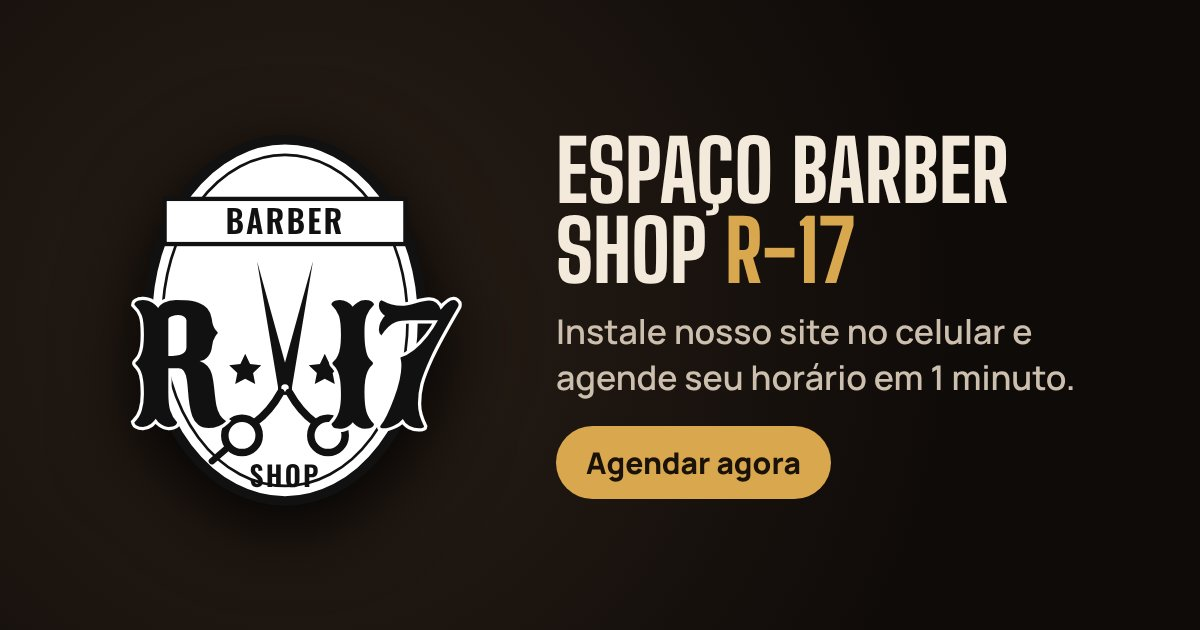
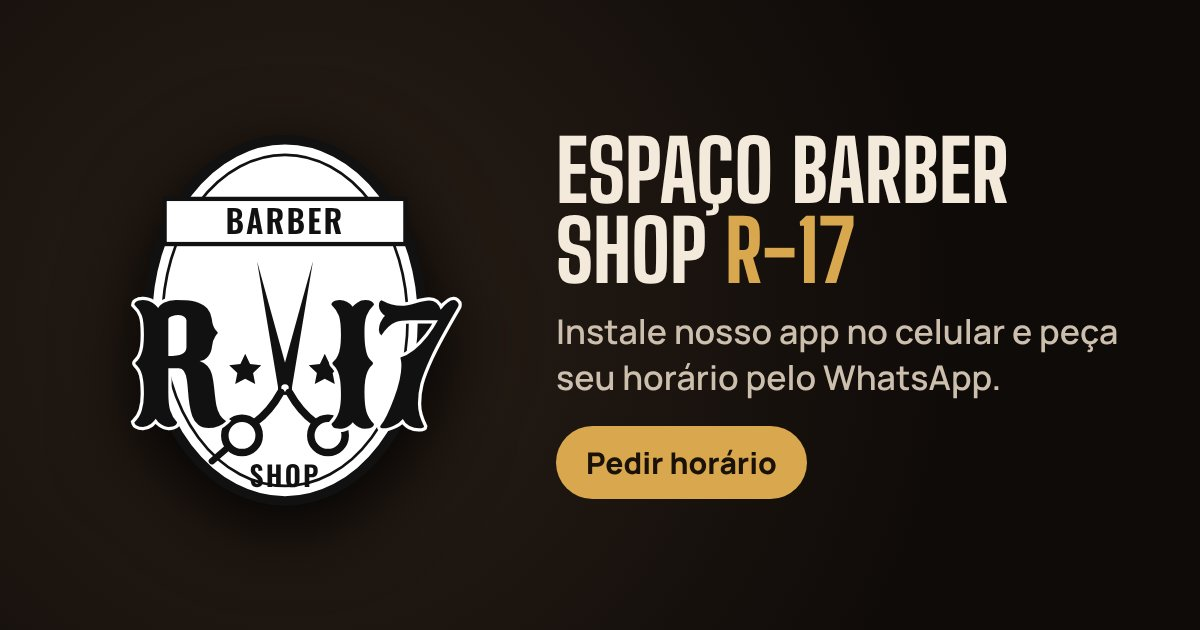
R-17: painel do dono instala como app próprio (R-17 Painel) com instruções
Claude-Session: https://claude.ai/code/session_01T54HaUnZSr3M1kr6SuLoc1

Changed region(s): [[0.4625, 0.5127, 0.9558, 0.6333], [0.4933, 0.6635, 0.7092, 0.8143], [0.7708, 0.5127, 0.8325, 0.5429]]

diff --git a/r17/index.html b/r17/index.html
@@ -6,7 +6,8 @@
 <title>Espaço Barber Shop R-17</title>
 <meta name="description" content="Barbearia no Jardim Kemel, Itaim Paulista. Agende seu horário online.">
 <meta name="claude:viewport-fit-sides" content="cover">
-<link rel="manifest" href="manifest.webmanifest">
+<link rel="manifest" id="mf" href="manifest.webmanifest">
+<script>/* painel do dono instala como app separado */ if(location.hash==="#adm"||/[?&]painel/.test(location.search)) { document.getElementById("mf").href="manifest-adm.webmanifest"; document.title="R-17 Painel"; }</script>
 <meta property="og:type" content="website">
 <meta property="og:title" content="Espaço Barber Shop R-17">
 <meta property="og:description" content="Instale nosso site no celular e agende seu horário em 1 minuto.">
@@ -690,7 +691,7 @@ footer{border-top:1px solid var(--line)}
         <div id="admBody" hidden>
           <div class="adm-top">
             <div><div class="eyebrow">Somente administrador</div><h2>Agenda da barbearia</h2></div>
-            <div class="btns" style="margin:0"><a class="btn btn-sm btn-y" href="./" target="_blank" rel="noopener">Ver site do cliente</a><button class="btn btn-sm btn-line" type="button" id="trocarSenha">Trocar senha</button><button class="btn btn-sm btn-line" type="button" id="sair">Sair do painel</button></div>
+            <div class="btns" style="margin:0"><button type="button" class="btn btn-sm btn-y" id="btnInstalarAdm" hidden>📲 Instalar painel no celular</button><a class="btn btn-sm btn-y" href="./" target="_blank" rel="noopener">Ver site do cliente</a><button class="btn btn-sm btn-line" type="button" id="trocarSenha">Trocar senha</button><button class="btn btn-sm btn-line" type="button" id="sair">Sair do painel</button></div>
           </div>
 
           <nav class="tabs" id="tabs" role="tablist">
@@ -1853,6 +1854,7 @@ renderSlots();
   carregarFotos();
   try{ await carregarLoja(); online=true; }catch(e){}
   if(!$("data").dataset.mexeu){ $("data").value=proximoDia(); }
+  if(location.hash!=="#adm" && /[?&]painel/.test(location.search)) history.replaceState(null,"",location.pathname+location.search+"#adm");
   if(location.hash==="#adm"){ abrirPainel(); setTimeout(()=>$("painel").scrollIntoView({behavior:"smooth"}),300); }
   setInterval(()=>{ if(!document.hidden && isAdmin() && !$("admBody").hidden) ouvirDia(); }, 30000);
   setInterval(()=>{ if(isAdmin() && !$("admBody").hidden && !document.querySelector(".row .edit")) ouvirAdm(); }, 20000);
@@ -1869,24 +1871,35 @@ let pedidoInstalar=null;
 const ehIOS = /iphone|ipad|ipod/i.test(navigator.userAgent) || (navigator.platform==="MacIntel" && navigator.maxTouchPoints>1);
 const ehCelular = /android|iphone|ipad|ipod|mobile/i.test(navigator.userAgent) || ehIOS;
 let fechouInstalar=false; try{ fechouInstalar = sessionStorage.getItem("r17-inst")==="0"; }catch(e){}
-function mostrarBtnInstalar(){ if(!ehApp && !fechouInstalar && location.hash!=="#adm" && (pedidoInstalar || ehCelular)) $("btnInstalar").hidden=false; }
+const ehPainel = () => location.hash==="#adm" || /[?&]painel/.test(location.search);
+function mostrarBtnInstalar(){
+  if(ehApp) return;
+  if(!ehPainel() && !fechouInstalar && (pedidoInstalar || ehCelular)) $("btnInstalar").hidden=false;
+  if(ehPainel()) $("btnInstalarAdm").hidden=false;
+}
 window.addEventListener("beforeinstallprompt",e=>{ e.preventDefault(); pedidoInstalar=e; mostrarBtnInstalar(); });
-window.addEventListener("appinstalled",()=>{ $("btnInstalar").hidden=true; });
+window.addEventListener("appinstalled",()=>{ $("btnInstalar").hidden=true; $("btnInstalarAdm").hidden=true; });
+window.addEventListener("hashchange",mostrarBtnInstalar);
 setTimeout(mostrarBtnInstalar,2500);
-$("btnInstalar").addEventListener("click",async()=>{
-  if(pedidoInstalar){ pedidoInstalar.prompt(); const r=await pedidoInstalar.userChoice.catch(()=>null); pedidoInstalar=null; if(r && r.outcome==="accepted") $("btnInstalar").hidden=true; return; }
-  $("instPassos").innerHTML = ehIOS
-    ? `<li>Abra este site no <b>Safari</b>.</li><li>Toque no botão <b>Compartilhar</b> (o quadrado com a setinha para cima ⬆).</li><li>Role e toque em <b>Adicionar à Tela de Início</b>.</li><li>Toque em <b>Adicionar</b>. Pronto, o ícone da R-17 aparece no celular.</li>`
-    : `<li>Toque nos <b>3 pontinhos ⋮</b> no canto de cima do navegador.</li><li>Toque em <b>Instalar app</b> ou <b>Adicionar à tela inicial</b>.</li><li>Confirme. Pronto, o ícone da R-17 aparece no celular.</li>`;
+async function instalarApp(){
+  const painel=ehPainel();
+  if(pedidoInstalar){ pedidoInstalar.prompt(); const r=await pedidoInstalar.userChoice.catch(()=>null); pedidoInstalar=null; if(r && r.outcome==="accepted"){ $("btnInstalar").hidden=true; $("btnInstalarAdm").hidden=true; } return; }
+  const nome = painel ? "R-17 Painel" : "R-17";
+  $("instPassos").innerHTML = (ehIOS
+    ? `<li>Abra este site no <b>Safari</b>.</li><li>Toque no botão <b>Compartilhar</b> (o quadrado com a setinha para cima ⬆).</li><li>Role e toque em <b>Adicionar à Tela de Início</b>.</li><li>Toque em <b>Adicionar</b>. Pronto, o ícone <b>${nome}</b> aparece no celular.</li>`
+    : `<li>Toque nos <b>3 pontinhos ⋮</b> no canto de cima do navegador.</li><li>Toque em <b>Instalar app</b> ou <b>Adicionar à tela inicial</b>.</li><li>Confirme. Pronto, o ícone <b>${nome}</b> aparece no celular.</li>`)
+    + (painel ? `<li>Faça isso no celular do dono. O app do painel é separado do app dos clientes.</li>` : "");
   $("instAjuda").hidden=false;
-});
+}
+$("btnInstalar").addEventListener("click",instalarApp);
+$("btnInstalarAdm").addEventListener("click",instalarApp);
 $("instFechar").addEventListener("click",()=>{ $("instAjuda").hidden=true; });
 $("instAjuda").addEventListener("click",e=>{ if(e.target===$("instAjuda")) $("instAjuda").hidden=true; });
 
 /* ---------- divulgar o app ---------- */
 const LINK_CLIENTE = new URL("./", location.href.split("#")[0]).href.replace(/index\.html$/,"");
 const MSG_APP = `💈 *Espaço Barber Shop R-17*
-Instale nosso site no seu celular e peça seu horário pelo WhatsApp!
+Instale nosso app no seu celular e peça seu horário pelo WhatsApp!
 
 👉 ${LINK_CLIENTE}
 

diff --git a/r17/sw.js b/r17/sw.js
@@ -1,6 +1,6 @@
 /* App da R-17: rede primeiro (sempre a versão mais nova); sem internet, usa a cópia guardada.
    Não guarda nada do banco (Supabase), só os arquivos do próprio site. */
-const CACHE = 'r17-v2';
+const CACHE = 'r17-v3';
 const BASICO = ['./', './index.html', './manifest.webmanifest', './icon-192.png', './icon-512.png', './fcosta.jpg'];
 self.addEventListener('install', e => { e.waitUntil(caches.open(CACHE).then(c => c.addAll(BASICO)).then(() => self.skipWaiting())); });
 self.addEventListener('activate', e => {
